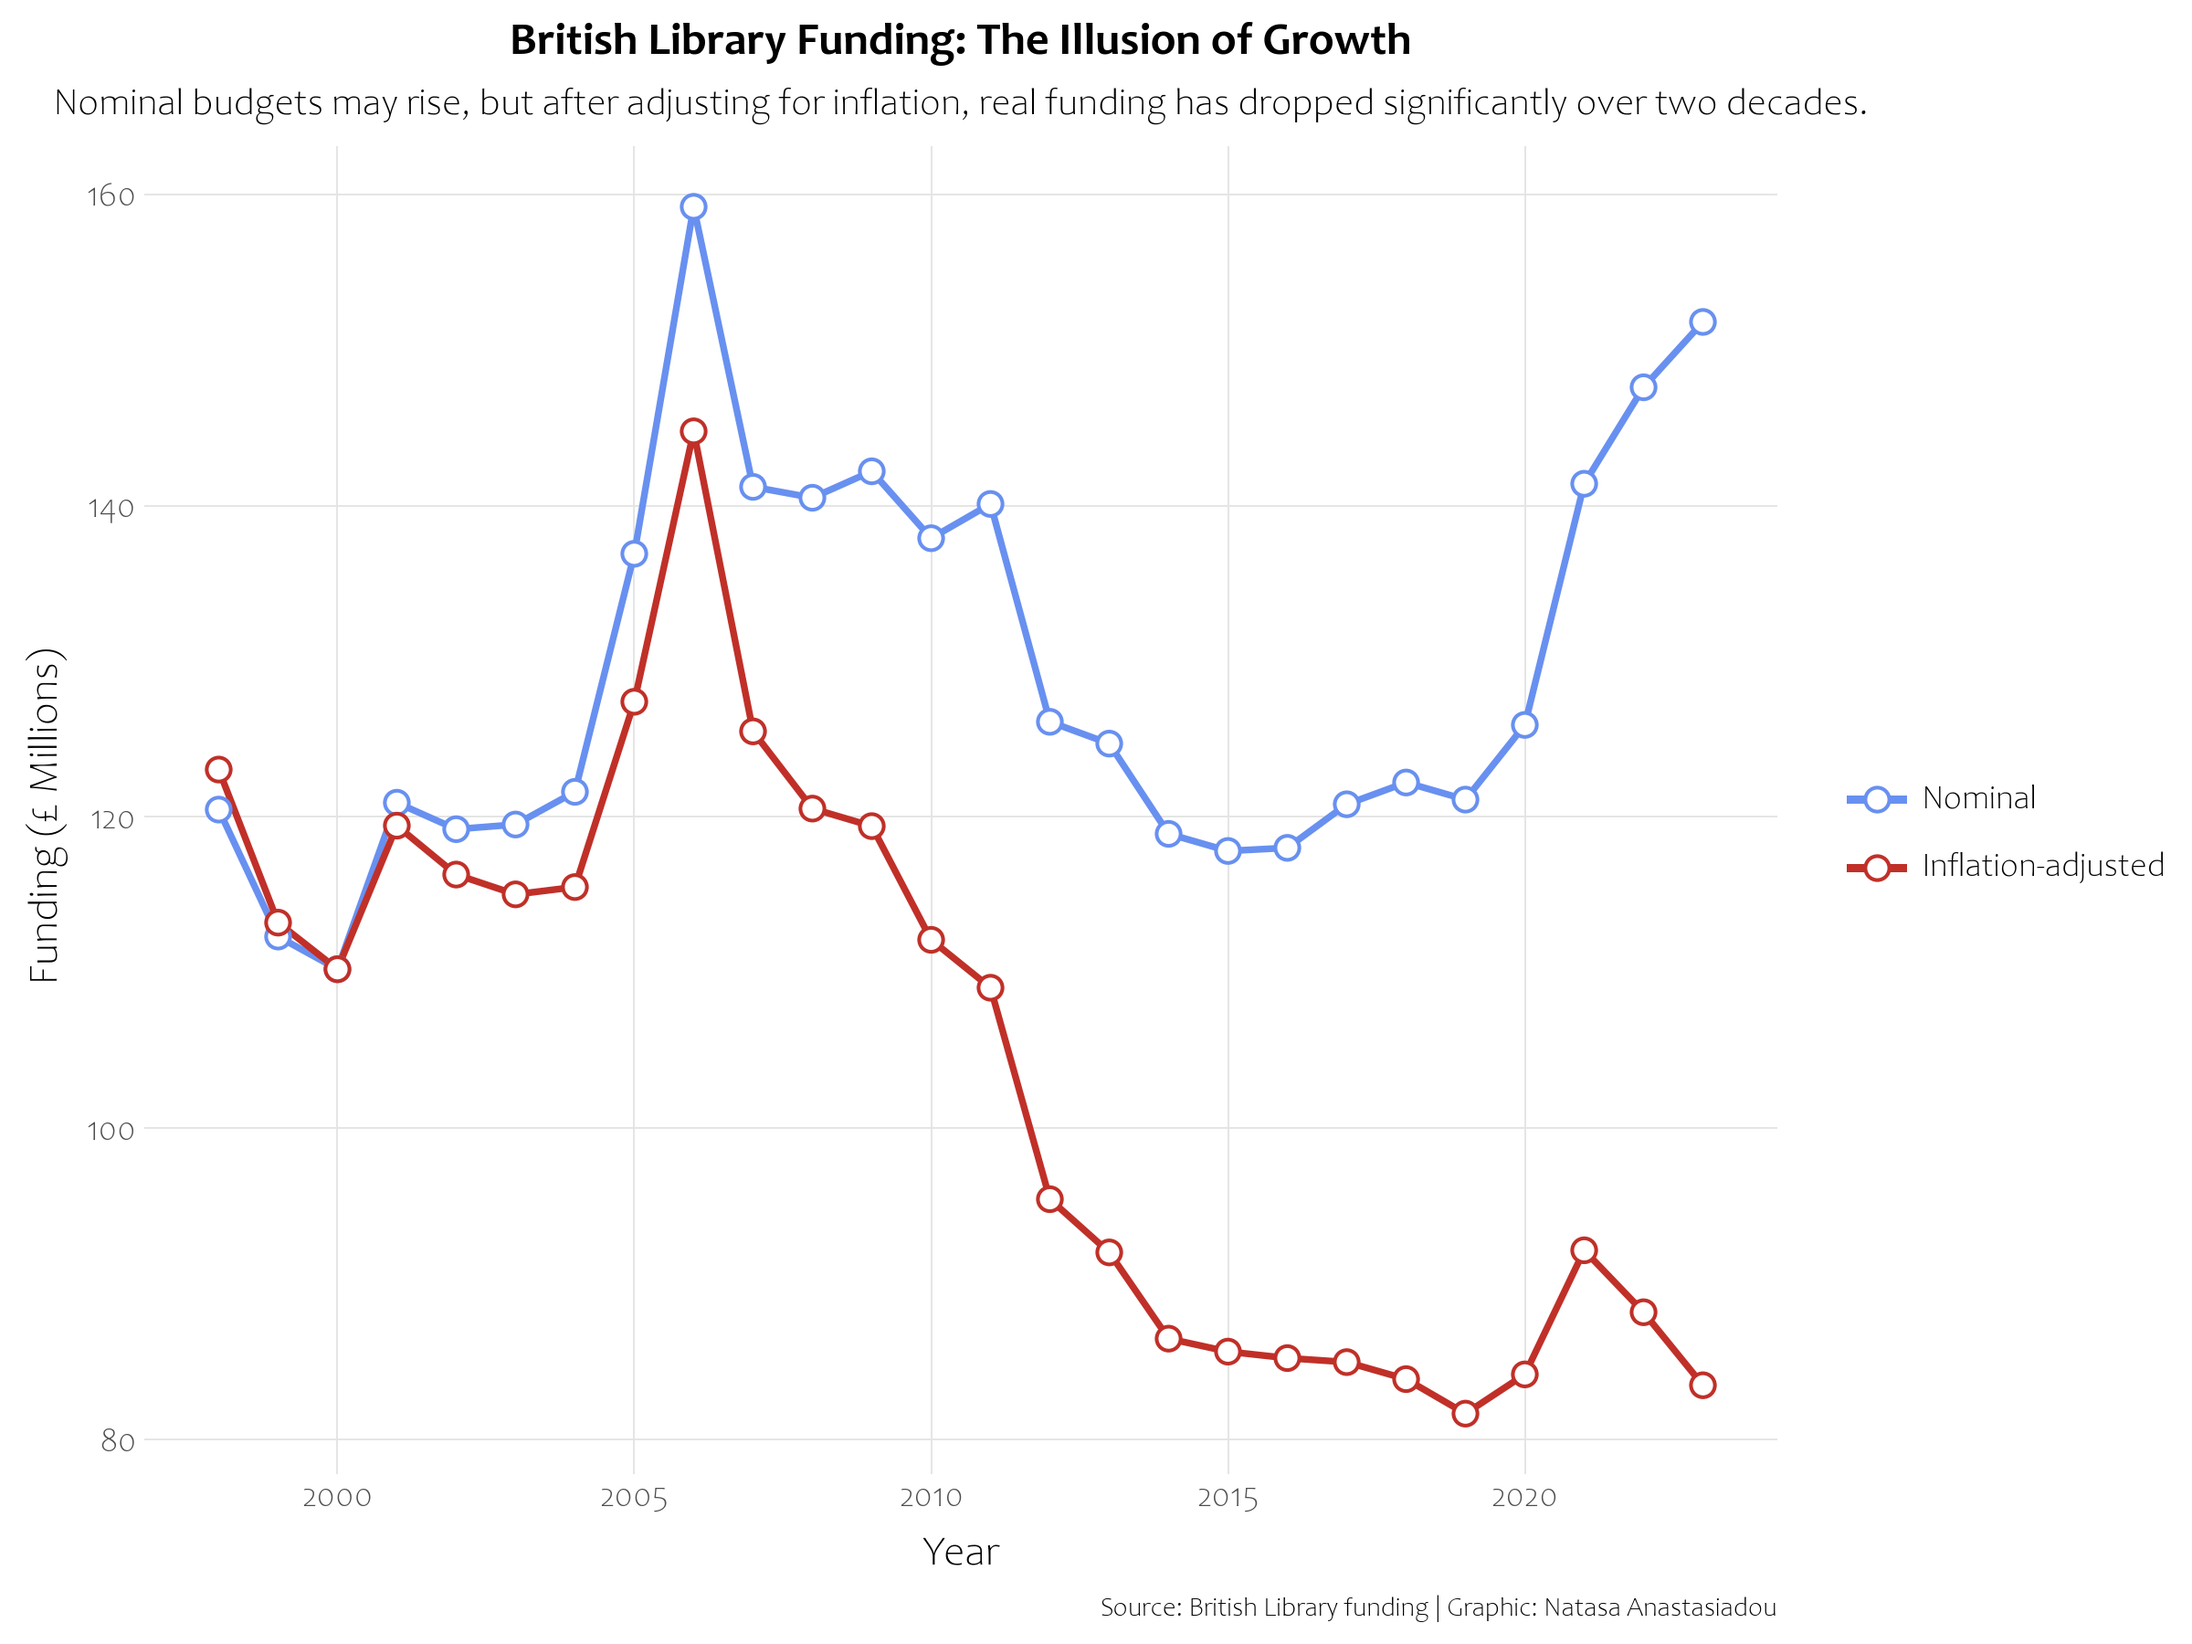
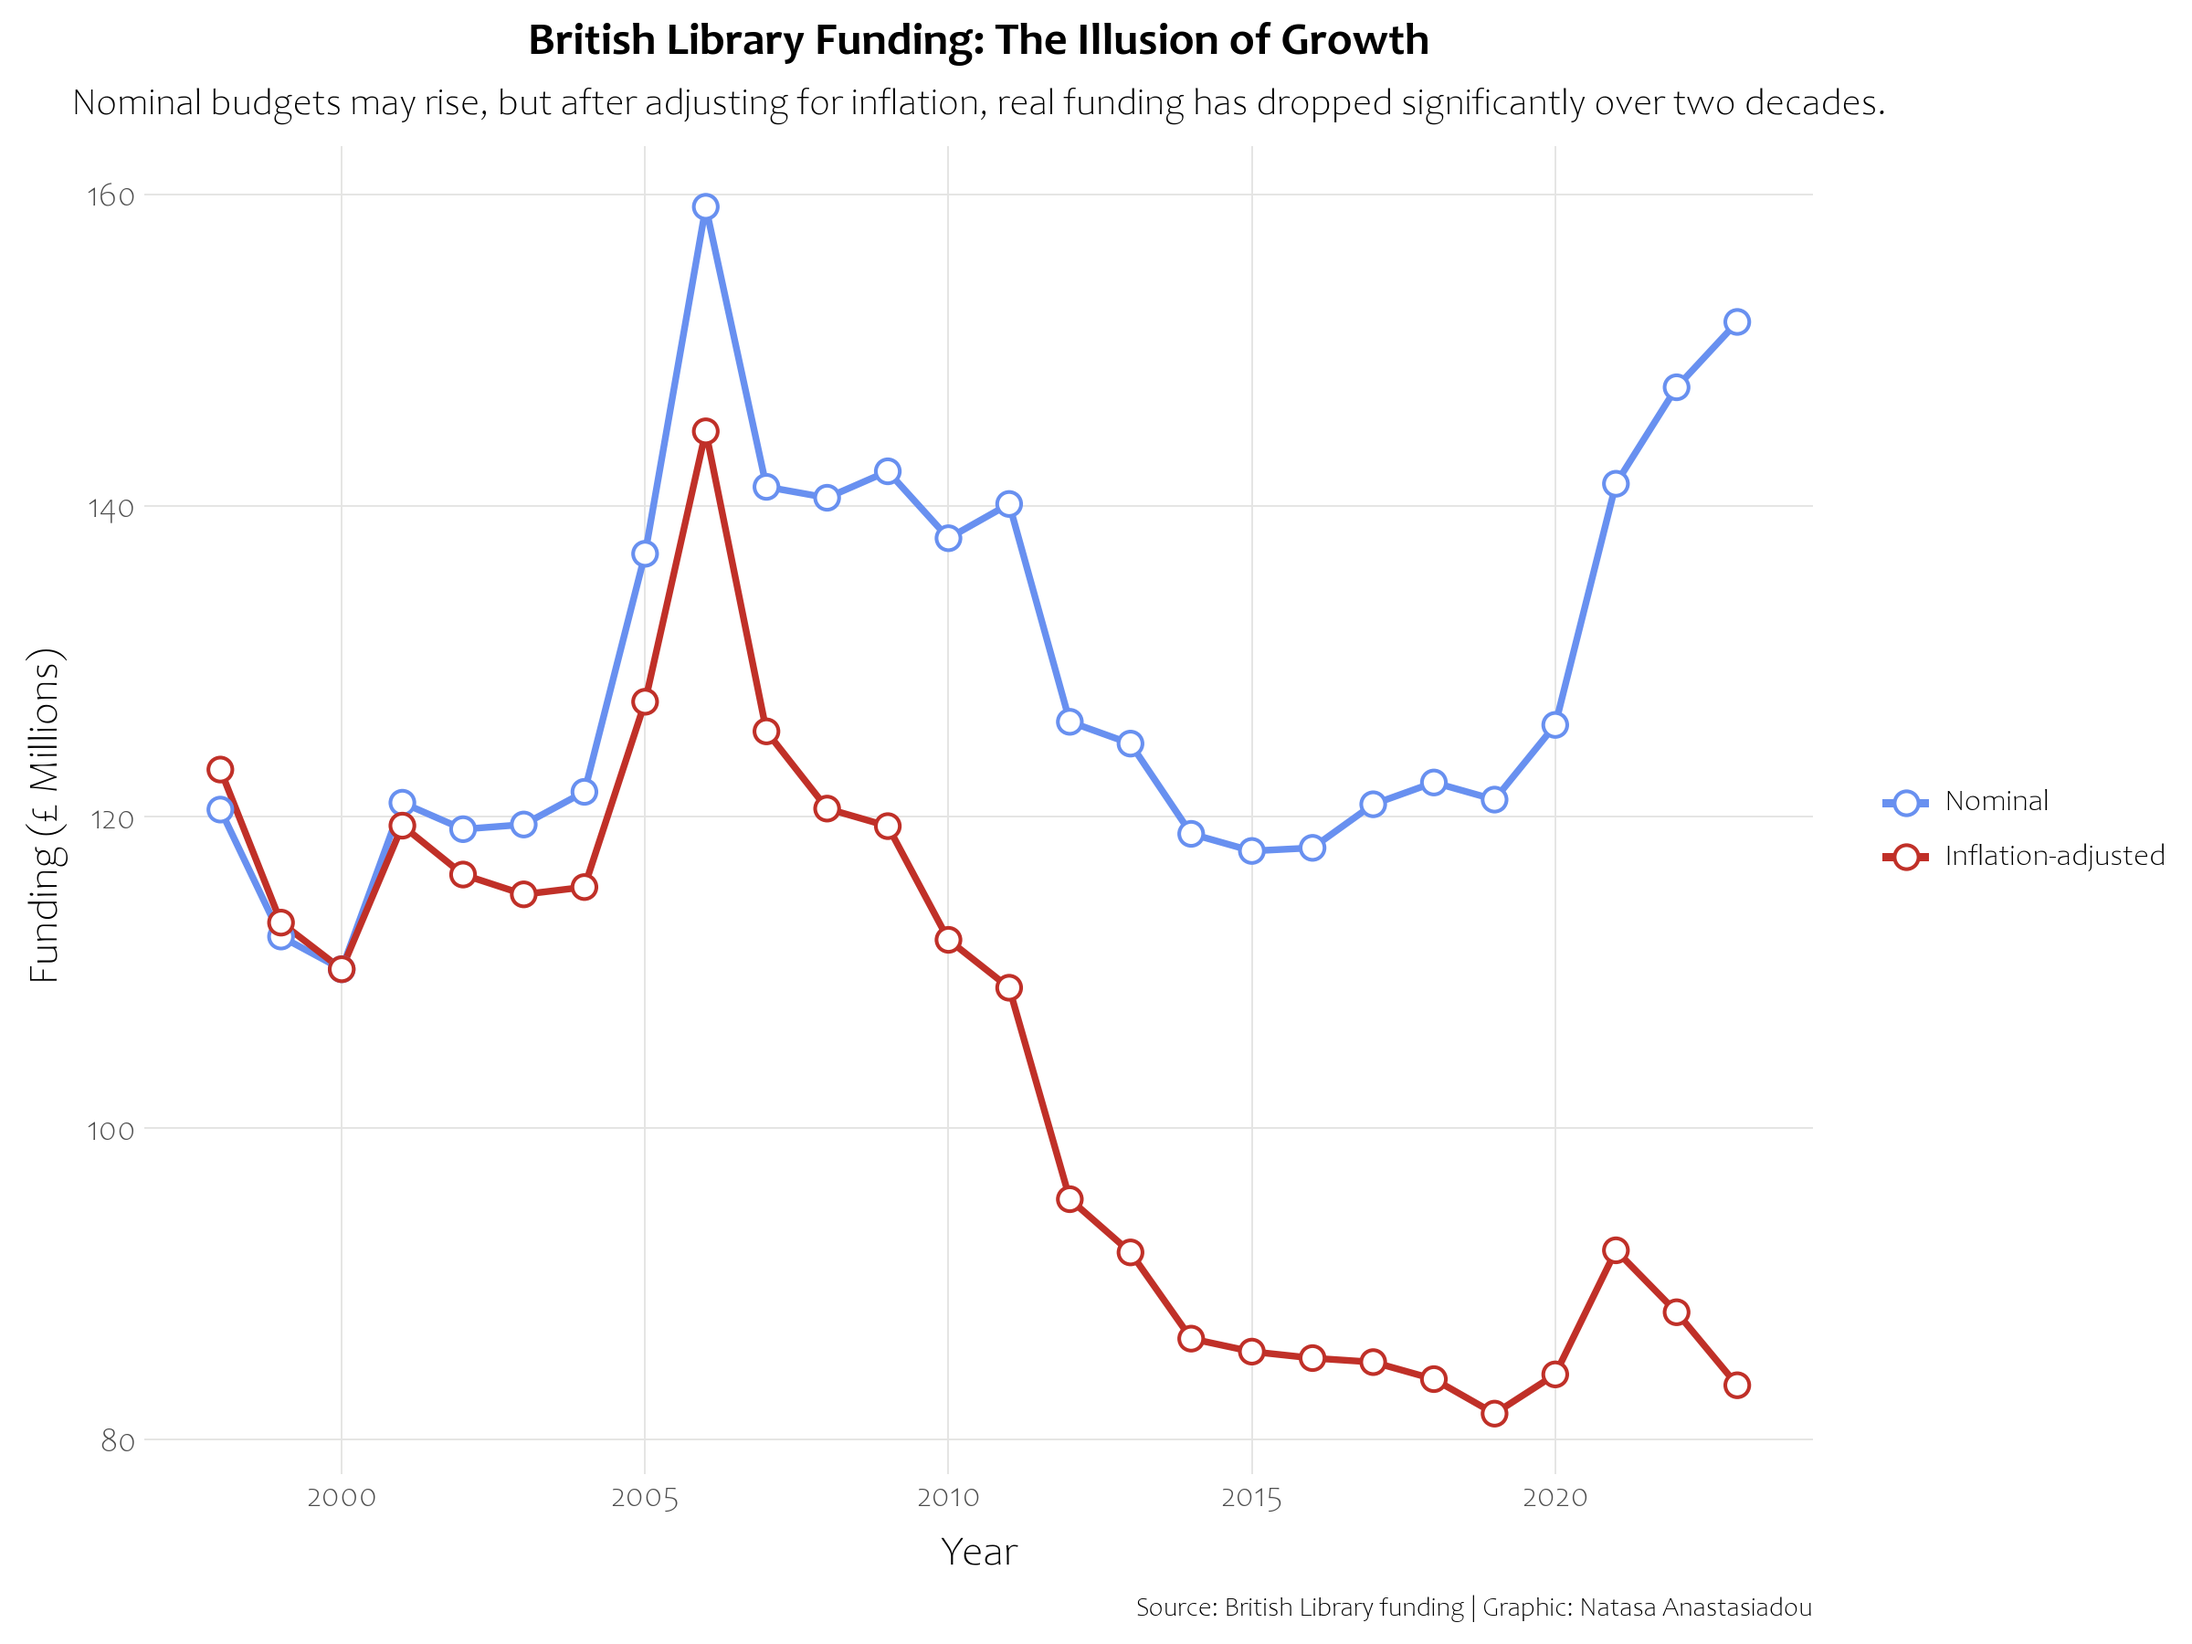
p

diff --git a/Code/2025/2025-07-15/2025-07-15.py b/Code/2025/2025-07-15/2025-07-15.py
@@ -61,6 +61,11 @@ plot1 = (
 
     theme(
 
+        legend_text=element_text(size=8),
+        legend_title=element_text(size=9),
+        legend_key_size=10,
+        legend_spacing=6,
+         
         panel_grid_major=element_line(size=0.45, color="#e4e4e3"),  # major gridlines
         panel_grid_minor=element_blank(),
 
